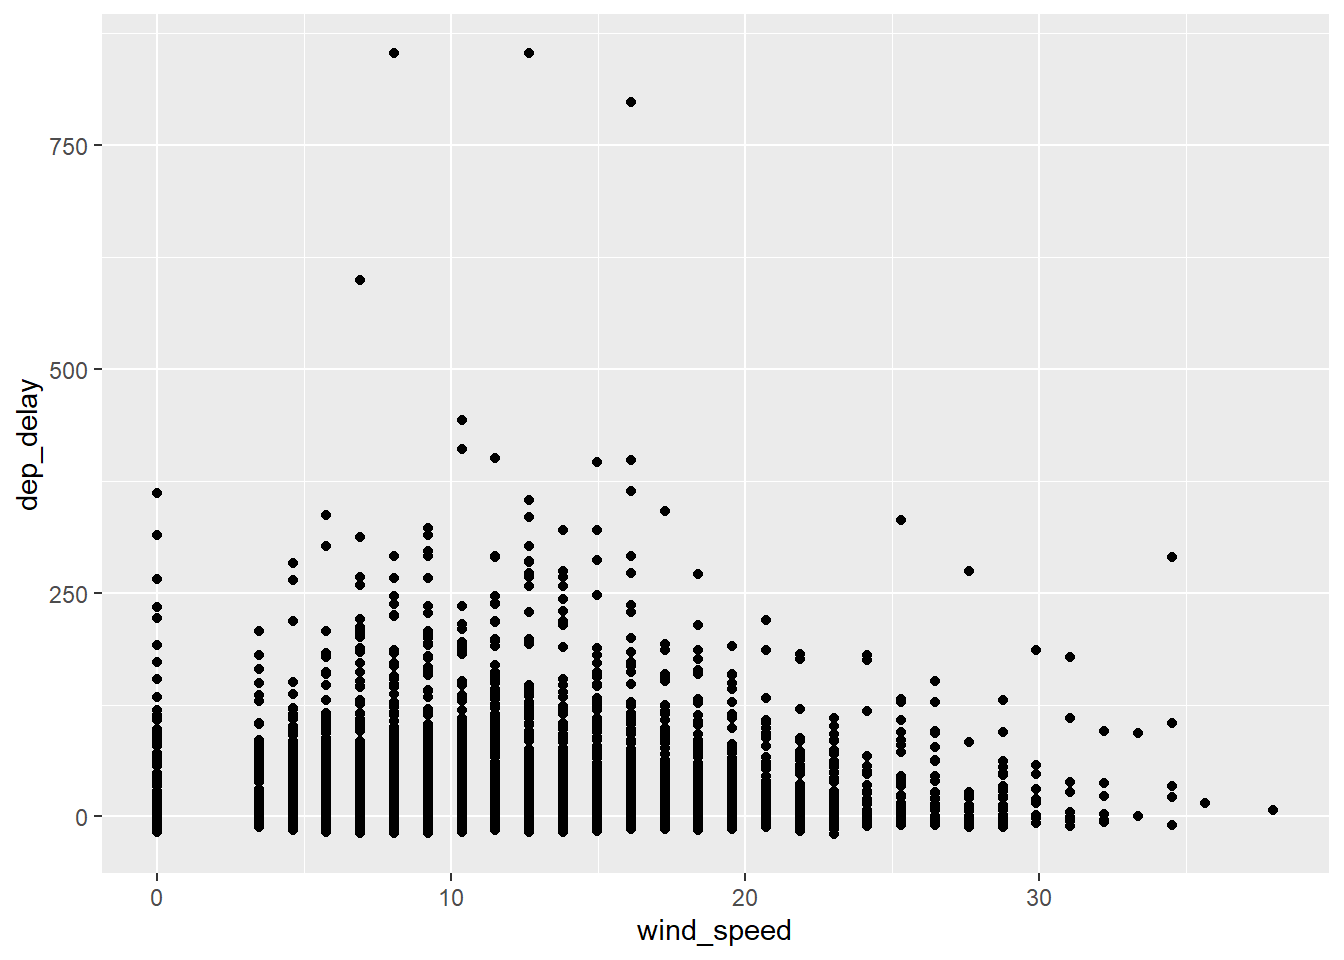
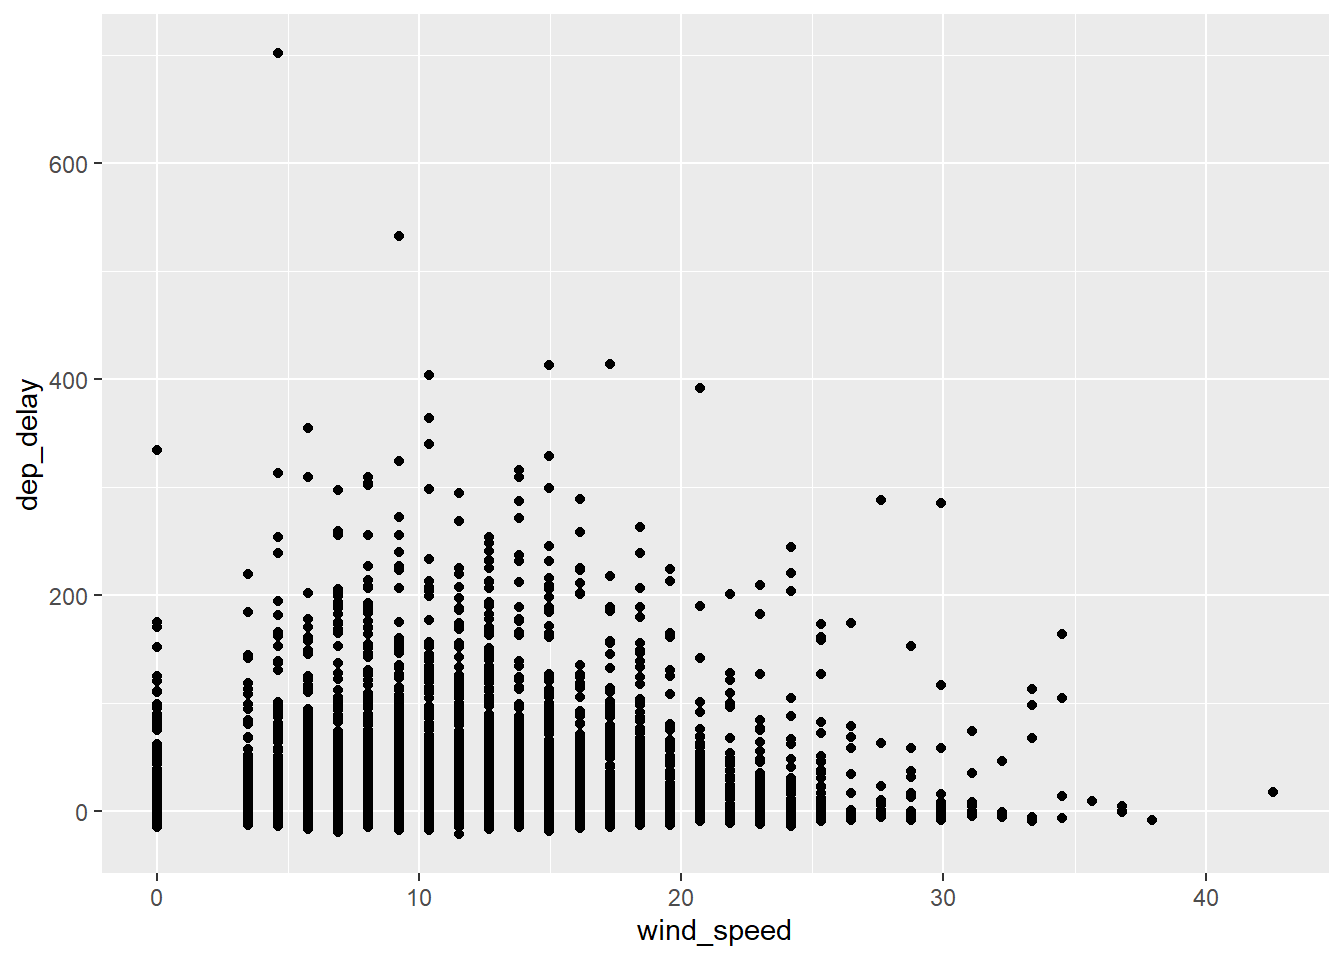
finally
op

diff --git a/content/others/nycflights/weather_flights_NYC.md b/content/others/nycflights/weather_flights_NYC.md
@@ -1,0 +1,118 @@
+---
+title: "Weather conditions and NYC Flights"
+output: html_document
+date: "2026-02-21"
+cms_exclude: true
+---
+
+
+
+# Generating a scatter plot of wind speed and departure delay
+
+In this document, we are working with weather data from airports in NYC and flights departing from here.
+Before we start, we need to clean the environment and load the packages we are going to use:
+
+
+``` r
+library(pacman)
+
+p_load(tidyverse,tidylog,nycflights13)
+```
+
+## Join datasets
+
+Now that we have the packages up and running, let's do a join between the dataframes weather and flights.
+Careful, it might not be trivial to do the join, let's see
+
+
+``` r
+flights_with_weather <- flights %>% left_join(weather)
+```
+
+```
+## Joining with `by = join_by(year, month, day, origin, hour, time_hour)`
+## left_join: added 9 columns (temp, dewp, humid, wind_dir, wind_speed, …)
+## > rows only in x 1,556
+## > rows only in weather ( 6,737)
+## > matched rows 335,220
+## > =========
+## > rows total 336,776
+```
+
+As tidylog informs us, we are losing 1556 observations. That's fine for the purpose of this exercise.
+Let's overwrite the \textbf{flights\_with_weather} dataframe to only give us the exact matches:
+
+
+``` r
+flights_with_weather <- flights %>% inner_join(weather)
+```
+
+```
+## Joining with `by = join_by(year, month, day, origin, hour, time_hour)`
+## inner_join: added 9 columns (temp, dewp, humid, wind_dir, wind_speed, …)
+## > rows only in x ( 1,556)
+## > rows only in weather ( 6,737)
+## > matched rows 335,220
+## > =========
+## > rows total 335,220
+```
+
+### Now we are equipped to do the ggplot scatterplot
+
+Given that we have a dataframe with the two desired columns, ggpplot() + geom$\_$point() + geom$\_$smooth() should give us what we want. Let's just select a random sample of 10k flights:
+
+
+
+``` r
+flights_with_weather %>% sample_n(10000) %>% ggplot() + 
+  geom_point(aes(x = wind_speed, y = dep_delay))
+```
+
+```
+## sample_n: removed 325,220 rows (97%), 10,000 rows remaining
+```
+
+```
+## Warning: Removed 257 rows containing missing values or values outside the scale range
+## (`geom_point()`).
+```
+
+<img src="/others/nycflights/weather_flights_NYC_files/figure-html/unnamed-chunk-4-1.png" width="672" />
+
+
+
+# Adding a regression line:
+
+
+``` r
+flights_with_weather %>% sample_n(10000) %>% ggplot() + 
+  geom_point(aes(x = wind_speed, y = dep_delay)) + 
+  geom_smooth(aes(x = wind_speed, y = dep_delay), method = "lm", color = "red")
+```
+
+```
+## sample_n: removed 325,220 rows (97%), 10,000 rows remaining
+## `geom_smooth()` using formula = 'y ~ x'
+```
+
+```
+## Warning: Removed 273 rows containing non-finite outside the scale range
+## (`stat_smooth()`).
+```
+
+```
+## Warning: Removed 273 rows containing missing values or values outside the scale range
+## (`geom_point()`).
+```
+
+<img src="/others/nycflights/weather_flights_NYC_files/figure-html/unnamed-chunk-5-1.png" width="672" />
+
+
+
+
+
+
+
+
+
+
